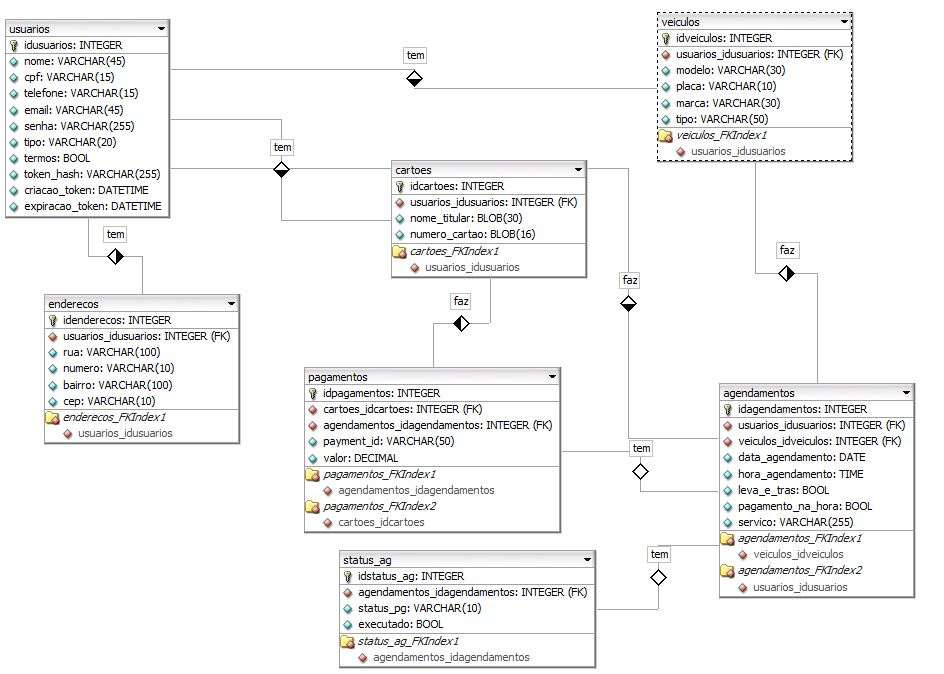
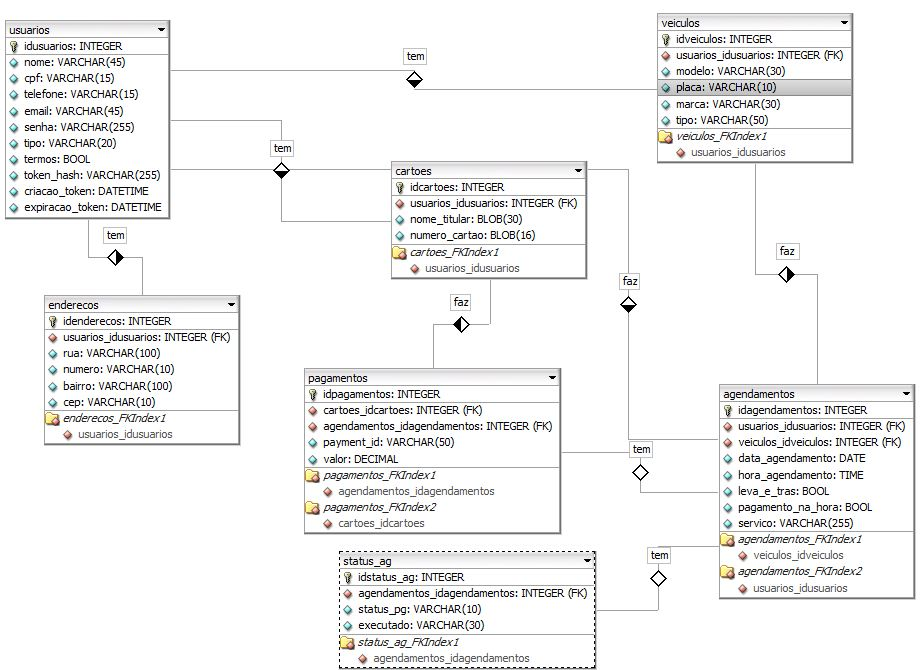
Sexto commit, add versão 0.0.12.0(Concluído pg admin_agendamentos.php com o status)

diff --git a/sistema/views/admin_agendamentos.php b/sistema/views/admin_agendamentos.php
@@ -12,6 +12,7 @@ if (!isset($_SESSION["loggedin"]) || $_SESSION["loggedin"] !== true) {
 // Consulta os agendamentos e os dados dos usuários
 $sql = "
 SELECT 
+    a.idagendamentos,
     u.nome,
     u.telefone,
     u.email,
@@ -31,7 +32,7 @@ SELECT
 FROM agendamentos a
 INNER JOIN usuarios u ON a.usuarios_idusuarios = u.idusuarios
 LEFT JOIN enderecos e ON e.usuarios_idusuarios = u.idusuarios
-INNER JOIN veiculos v ON a.veiculos_idveiculos = v.idveiculos
+LEFT JOIN veiculos v ON a.veiculos_idveiculos = v.idveiculos
 LEFT JOIN pagamentos p ON a.idagendamentos = p.agendamentos_idagendamentos
 LEFT JOIN status_ag s ON a.idagendamentos = s.agendamentos_idagendamentos
 ORDER BY a.data_agendamento DESC, a.hora_agendamento DESC
@@ -40,6 +41,40 @@ ORDER BY a.data_agendamento DESC, a.hora_agendamento DESC
 $result = $conn->query($sql);
 if (!$result) {
     die("Erro na consulta: " . $conn->error);
+}
+
+// Tabela de preços baseada no welcome.js
+$servicos = [
+    "enceramento" => ["carro" => 80, "moto" => 40, "caminhao" => 250],
+    "polimento" => ["carro" => 180, "moto" => 40, "caminhao" => 350, "van" => 1200],
+    "cristalizacao" => ["carro" => 280, "van" => 1200],
+    "vitrificacao" => ["carro" => 730],
+    "lavagem_motor" => ["carro" => 60, "van" => 80],
+    "hidratacao_couro" => ["carro" => 180, "caminhao" => 250],
+    "higienizacao" => ["carro" => 230, "caminhao" => 330, "van" => 800],
+    "lavagem_externa" => ["carro" => 70, "moto" => 40, "caminhao" => 250, "van" => 50],
+    "lavagem_interna" => ["carro" => 35, "caminhao" => 125, "van" => 50]
+];
+
+$nomesServicos = [
+    "enceramento" => "Enceramento",
+    "polimento" => "Polimento",
+    "cristalizacao" => "Cristalização",
+    "vitrificacao" => "Vitrificação",
+    "lavagem_motor" => "Lavagem de motor",
+    "hidratacao_couro" => "Hidratação em couro",
+    "higienizacao" => "Higienização",
+    "lavagem_externa" => "Lavagem externa",
+    "lavagem_interna" => "Lavagem interna"
+];
+
+// Função auxiliar para obter tipo de veículo
+function tipoVeiculo($modelo) {
+    $modeloLower = strtolower($modelo);
+    if (str_contains($modeloLower, 'moto')) return 'moto';
+    if (str_contains($modeloLower, 'caminhao')) return 'caminhao';
+    if (str_contains($modeloLower, 'van')) return 'van';
+    return 'carro'; // padrão
 }
 ?>
 
@@ -86,15 +121,28 @@ if (!$result) {
                                 <td><?= htmlspecialchars($row['nome']) ?></td>
                                 <td><?= htmlspecialchars($row['telefone']) ?></td>
                                 <td><?= htmlspecialchars($row['modelo']) ?> [<?= htmlspecialchars($row['placa']) ?>]</td>
-                                <td><?= htmlspecialchars($row['servico']) ?></td>
+                                <!-- <td>?<= htmlspecialchars($row['servico']) ?></td> -->
+                                 <td><?= $nomesServicos[$row['servico']] ?? ucfirst($row['servico']) ?></td>
                                 <td><?= date('d/m/Y', strtotime($row['data_agendamento'])) ?></td>
                                 <td><?= htmlspecialchars(substr($row['hora_agendamento'], 0, 5)) ?></td>
                                 <td><?= $row['leva_e_tras'] ? 'Sim' : 'Não' ?></td>
-                                <td><?= number_format($row['valor'], 2, ',', '.') ?> R$</td>
-                                <td><?= $row['executado'] ? 'Confirmado' : 'Não Confirmado' ?></td>
+                                <!-- <td>?<= number_format($row['valor'], 2, ',', '.') ?> R$</td> -->
+                                 <?php
+                                        $tipo = tipoVeiculo($row['modelo']);
+                                        $servico = $row['servico'];
+                                        $valor = $servicos[$servico][$tipo] ?? 0;
+                                    ?>
+                                    <td><?= number_format($valor, 2, ',', '.') ?> R$</td>
+
+                                <td><?= htmlspecialchars($row['executado'] ?? 'Não definido') ?></td>
                                 <td>
-                                    <i class="bi bi-pencil-square me-2 icon-action" title="Editar" data-bs-toggle="modal"
-                                        data-bs-target="#modalEditar" style="color: #00a3c7;"></i>
+                                    <i class="bi bi-pencil-square me-2 icon-action btn-editar"
+                                        title="Editar"
+                                        data-id="<?= $row['idagendamentos'] ?>"
+                                        data-bs-toggle="modal"
+                                        data-bs-target="#modalEditar"
+                                        style="color: #00a3c7;">
+                                    </i>
                                     <i class="bi bi-card-text icon-action btn-detalhes" 
                                         title="Detalhes"
                                         data-bs-toggle="modal"
@@ -135,7 +183,16 @@ if (!$result) {
                         <p><strong>Status:</strong> <?= $row['executado'] ? 'Confirmado' : 'Não Confirmado' ?></p>
 
                         <div class="position-absolute top-0 end-0 m-3">
-                            <i class="bi bi-pencil-square me-2" data-bs-toggle="modal" data-bs-target="#modalEditar"></i>
+                            <!-- Botão de editar -->
+                            <i class="bi bi-pencil-square me-2 icon-action btn-editar"
+                                title="Editar"
+                                data-id="<?= $row['idagendamentos'] ?>"
+                                data-bs-toggle="modal"
+                                data-bs-target="#modalEditar"
+                                style="color: #00a3c7;">
+                            </i>
+
+                            <!-- Botão de detalhes -->
                             <i class="bi bi-card-text btn-detalhes" 
                                 data-bs-toggle="modal"
                                 data-bs-target="#modalDetalhes"
@@ -201,6 +258,44 @@ if (!$result) {
             </div>
         </div>
     </div>
+
+<!-- Modal Editar -->
+    <div class="modal fade" id="modalEditar" tabindex="-1" aria-hidden="true">
+        <div class="modal-dialog modal-dialog-centered">
+            <div class="modal-content border-0" style="border-radius: 15px; background-color: #009bbf;">
+                <div class="modal-body px-4 py-4 text-white">
+                    <h5 class="text-center fw-bold mb-4">Processo de lavagem</h5>
+
+                    <button type="button" class="btn w-100 mb-3 btn-status" style="background-color: white; color: #444; border-radius: 10px; height: 55px; 
+                   box-shadow: 0 0 5px rgba(0,0,0,0.50); font-weight: 500;">
+                        Confirmado
+                    </button>
+
+                    <button type="button" class="btn w-100 mb-3 btn-status" style="background-color: white; color: red; border-radius: 10px; height: 55px; 
+                   box-shadow: 0 0 5px rgba(0,0,0,0.50); font-weight: 500;">
+                        Fila de espera
+                    </button>
+
+                    <button type="button" class="btn w-100 mb-3 btn-status" style="background-color: white; color: orange; border-radius: 10px; height: 55px; 
+                   box-shadow: 0 0 5px rgba(0,0,0,0.50); font-weight: 500;">
+                        Em andamento
+                    </button>
+
+                    <button type="button" class="btn w-100 mb-4 btn-status" style="background-color: white; color: #444; border-radius: 10px; height: 55px; 
+                   box-shadow: 0 0 5px rgba(0,0,0,0.50); font-weight: 500;">
+                        Concluída
+                    </button>
+
+                    <div class="pt-5">
+                        <button type="button" class="btn w-100" style="background-color: white; color: #444; border-radius: 10px; height: 55px; 
+                   box-shadow: 0 0 5px rgba(0,0,0,0.50); font-weight: 500;" data-bs-dismiss="modal">
+                            Voltar
+                        </button>
+                    </div>
+                </div>
+            </div>
+        </div>
+    </div>
 </section>
 
 <!-- Script para preencher o modal dinamicamente -->
@@ -258,6 +353,49 @@ document.addEventListener('DOMContentLoaded', function () {
     });
 });
 </script>
+
+<!-- alertas  de editar-->
+ <script src="https://cdn.jsdelivr.net/npm/sweetalert2@11"></script>
+<script>
+let agendamentoId = null;
+
+document.querySelectorAll('.btn-editar').forEach(btn => {
+    btn.addEventListener('click', () => {
+        agendamentoId = btn.dataset.id;
+    });
+});
+
+document.querySelectorAll('#modalEditar .btn-status').forEach(button => {
+    button.addEventListener('click', () => {
+        const status = button.innerText.trim();
+        if (!agendamentoId) return;
+
+        fetch('../controllers/update_status.php', {
+            method: 'POST',
+            headers: { 'Content-Type': 'application/json' },
+            body: JSON.stringify({ id: agendamentoId, status: status })
+        })
+        .then(res => res.json())
+        .then(data => {
+            if (data.success) {
+                Swal.fire({
+                    icon: 'success',
+                    title: 'Status atualizado',
+                    text: 'O status foi alterado com sucesso!',
+                    timer: 2000,
+                    showConfirmButton: false
+                }).then(() => location.reload());
+            } else {
+                Swal.fire({ icon: 'error', title: 'Erro', text: data.message || 'Erro ao atualizar o status.' });
+            }
+        })
+        .catch(() => {
+            Swal.fire({ icon: 'error', title: 'Erro', text: 'Erro na requisição.' });
+        });
+    });
+});
+</script>>
+
 
 <!-- Bootstrap JS -->
 <script src="https://cdn.jsdelivr.net/npm/bootstrap@5.3.0/dist/js/bootstrap.bundle.min.js"></script>

diff --git a/sistema/controllers/update_status.php b/sistema/controllers/update_status.php
@@ -1,0 +1,36 @@
+<?php
+require_once __DIR__ . '/../init.php';// Incluir o arquivo de inicialização
+header('Content-Type: application/json'); // Definir o cabeçalho para JSON
+
+$data = json_decode(file_get_contents('php://input'), true);
+
+if (!isset($data['id']) || !isset($data['status'])) {
+    echo json_encode(['success' => false, 'message' => 'Dados incompletos.']);
+    exit;
+}
+
+$id = intval($data['id']);
+$status = trim($data['status']);
+
+$stmt = $conn->prepare("
+    INSERT INTO status_ag (agendamentos_idagendamentos, executado) 
+    VALUES (?, ?)
+    ON DUPLICATE KEY UPDATE executado = VALUES(executado)
+");
+
+if (!$stmt) {
+    echo json_encode(['success' => false, 'message' => 'Erro na preparação da consulta.']);
+    exit;
+}
+
+$stmt->bind_param("is", $id, $status);
+
+if ($stmt->execute()) {
+    echo json_encode(['success' => true]);
+} else {
+    echo json_encode(['success' => false, 'message' => 'Erro ao atualizar o status.']);
+}
+
+$stmt->close();
+$conn->close();
+?>

diff --git a/readme.md b/readme.md
@@ -102,17 +102,18 @@ composer install
 │
 ├── 📂 controllers/-(lógica de negócios - salvar, listar, excluir)
 │   ├── 📂 Api/
-│   │    ├── 📄 get_agndamentos.php(listar agendamentos)
-│   │    └── 📄 get_veiculos.php (listar veiculos)
+│   │    ├── 📄 get_agndamentos.php-(listar agendamentos)
+│   │    └── 📄 get_veiculos.php-(listar veiculos)
 |   |
-|   ├── 📄 add_agendamento.php(adicionar agendamento)
-|   ├── 📄 addcar.php(cadastrar veiculo)
+|   ├── 📄 add_agendamento.php-(adicionar agendamento)
+|   ├── 📄 addcar.php-(cadastrar veiculo)
 |   ├── 📄 logout.php-(lógica do logout do sistema)
 |   ├── 📄 new_pass.php-(lógica de alterarv a senha do usuario)
 │   ├── 📄 processa.php- (lógica do cadastro)
-|   ├── 📄 removecar.php(remover veiculo)
-|   ├── 📄 remover_agendamento.php(remover agendamento)
-│   └── 📄 salvar_veiculo.php(cadastrar veiculo no banco)
+|   ├── 📄 removecar.php-(remover veiculo)
+|   ├── 📄 remover_agendamento.php-(remover agendamento)
+│   ├── 📄 salvar_veiculo.php-(cadastrar veiculo no banco)
+│   └── 📄 update_status.php-(script que atualiza status de agendamentos)
 |
 |
 ├── 📂 model/
@@ -142,10 +143,14 @@ composer install
 │   ├── 📄 admin_usuarios.php-(Àrea logada Admin)
 │   ├── 📄 alter_pass.php-(Página de alterar a senha)
 │   ├── 📄 cadastro.-(Página de cadastro de clientes)
+│   ├── 📄 dashboard_admin.php-(Dashboard do admin)
+│   ├── 📄 dashboard_user.php-(Àrea logada usuario cliente)
 │   ├── 📄 index.php-(Página Home)ok
-│   ├── 📄 login.php- (Página de login de usuários)ok
+│   ├── 📄 login.php- (Página de login de usuários)
+│   ├── 📄 perfil_user.php-(Página de perfil do usuario)
 │   ├── 📄 recovery.php-(Página de recuperação de senha)
-│   └── 📄 welcome.php-(Àrea logada usuario cliente)
+|   └── 📄 sucsses.php-(Página de sucesso pos add nova senha)
+│    
 │
 │
 ├── 📄 .env-(variáveis de ambiente)
